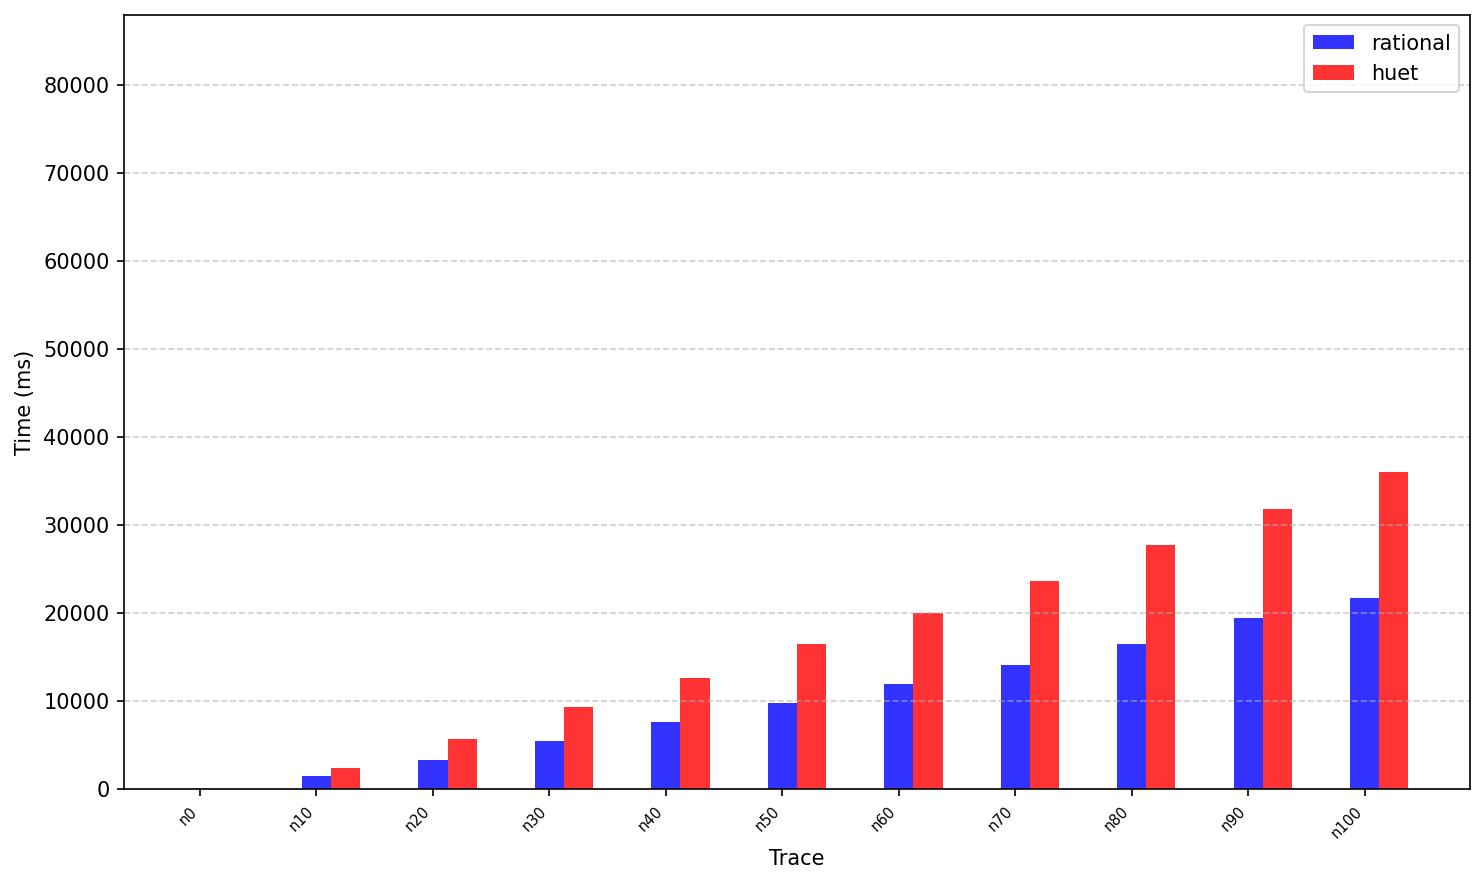
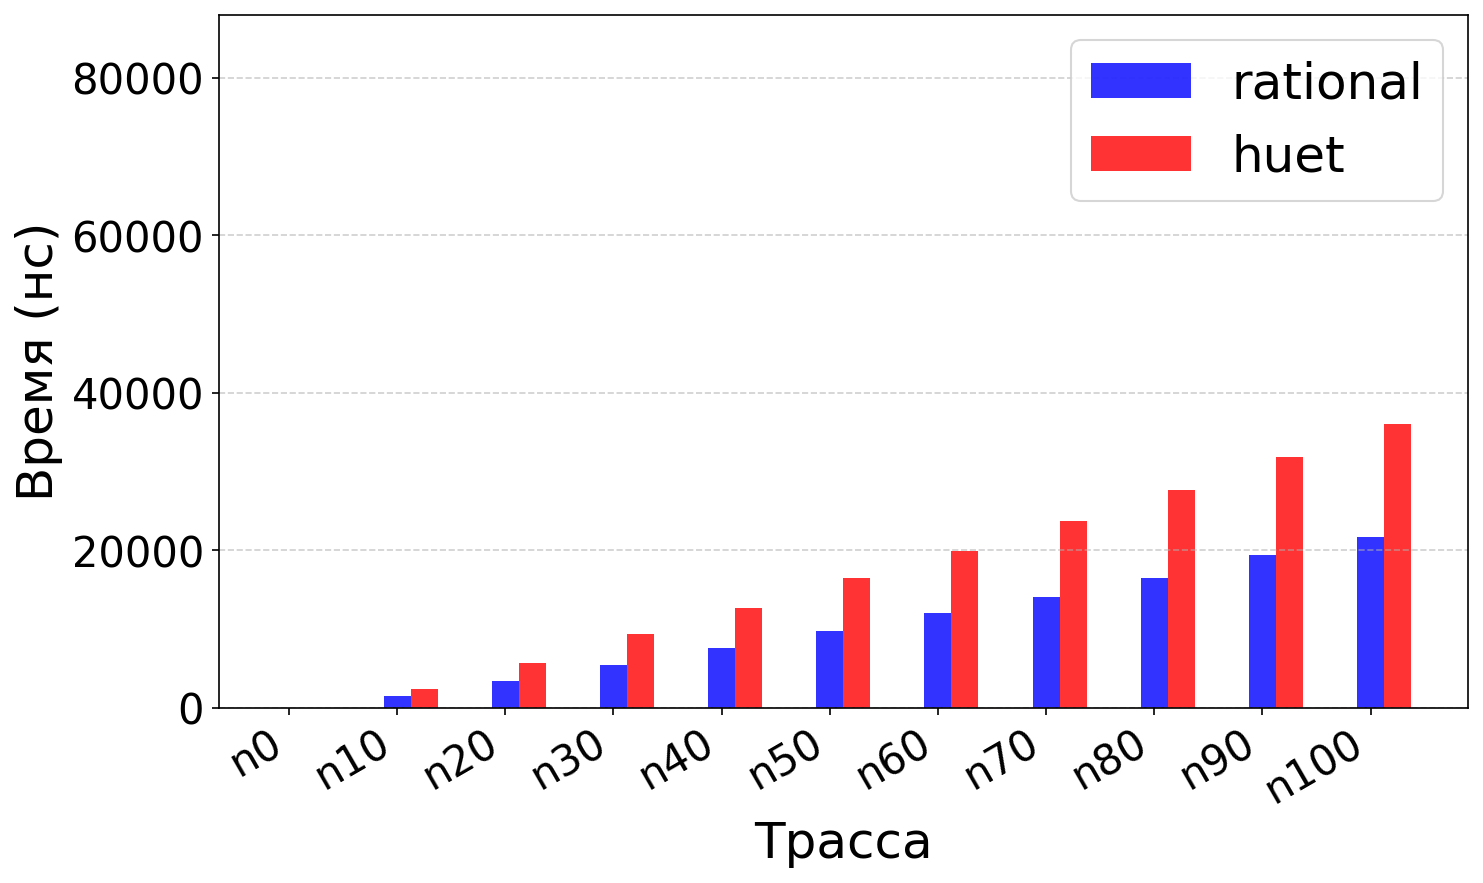
Add russified plots

diff --git a/bench/plot_robinson_vs_others.py b/bench/plot_robinson_vs_others.py
@@ -125,13 +125,14 @@ def plot_comparison(medians, variant, trace_set_label):
         ax.set_xlim(min_val, max_val)
         ax.set_ylim(min_val, max_val)
 
-    ax.set_xlabel('robinson median time (ns)')
-    ax.set_ylabel('other algorithm median time (ns)')
+    ax.set_xlabel('Медианное время robinson (нс)', fontsize=24)
+    ax.set_ylabel('Медианное время (нс)', fontsize=24)
     # ax.set_title(f'robinson vs rational / huet\n(variant={variant}, trace_set={trace_set_label})')
-    ax.legend()
+    ax.legend(fontsize=24)
     ax.grid(True, alpha=0.3, which='both')
     ax.set_xscale('log')
     ax.set_yscale('log')
+    ax.tick_params(axis='both', which='both', labelsize=20)
 
     # File name: replace '::' and invalid characters
     safe_label = trace_set_label.replace('::', '_').replace(' ', '_')

diff --git a/bench/plot_bars.py b/bench/plot_bars.py
@@ -132,14 +132,17 @@ def plot_bars(variant: str, trace_set: str, output_file: str = None, ymax: float
         return
 
     ax.set_xticks(x + width)
-    ax.set_xticklabels(filtered_traces, rotation=45, ha='right', fontsize=7)
+    ax.set_xticklabels(filtered_traces, rotation=30, ha='right', fontsize=7)
 
-    ax.set_xlabel('Trace')
-    ax.set_ylabel('Time (ns)')
+    ax.set_xlabel('Трасса', fontsize=24)
+    ax.set_ylabel('Время (нс)', fontsize=24)
 
     # ax.set_title(f"Algorithm comparison on '{trace_set}' (variant: {variant})")
-    ax.legend()
+    ax.legend(fontsize=24)
     ax.grid(True, axis='y', linestyle='--', alpha=0.6)
+
+    ax.yaxis.get_offset_text().set_fontsize(20)
+    ax.tick_params(axis='both', which='both', labelsize=20)
 
     plt.tight_layout()
 

diff --git a/bench/plot_bars_no_robinson.py b/bench/plot_bars_no_robinson.py
@@ -129,13 +129,16 @@ def plot_bars(variant: str, trace_set: str, output_file: str = None, ymax: float
         return
 
     ax.set_xticks(x + width / 2)
-    ax.set_xticklabels(filtered_traces, rotation=45, ha='right', fontsize=7)
+    ax.set_xticklabels(filtered_traces, rotation=30, ha='right', fontsize=7)
 
-    ax.set_xlabel('Trace')
-    ax.set_ylabel('Time (ns)')
+    ax.set_xlabel('Трасса', fontsize=24)
+    ax.set_ylabel('Время (нс)', fontsize=24)
 
-    ax.legend()
+    ax.legend(fontsize=24)
     ax.grid(True, axis='y', linestyle='--', alpha=0.6)
+
+    ax.yaxis.get_offset_text().set_fontsize(20)
+    ax.tick_params(axis='both', which='both', labelsize=20)
 
     plt.tight_layout()
 
